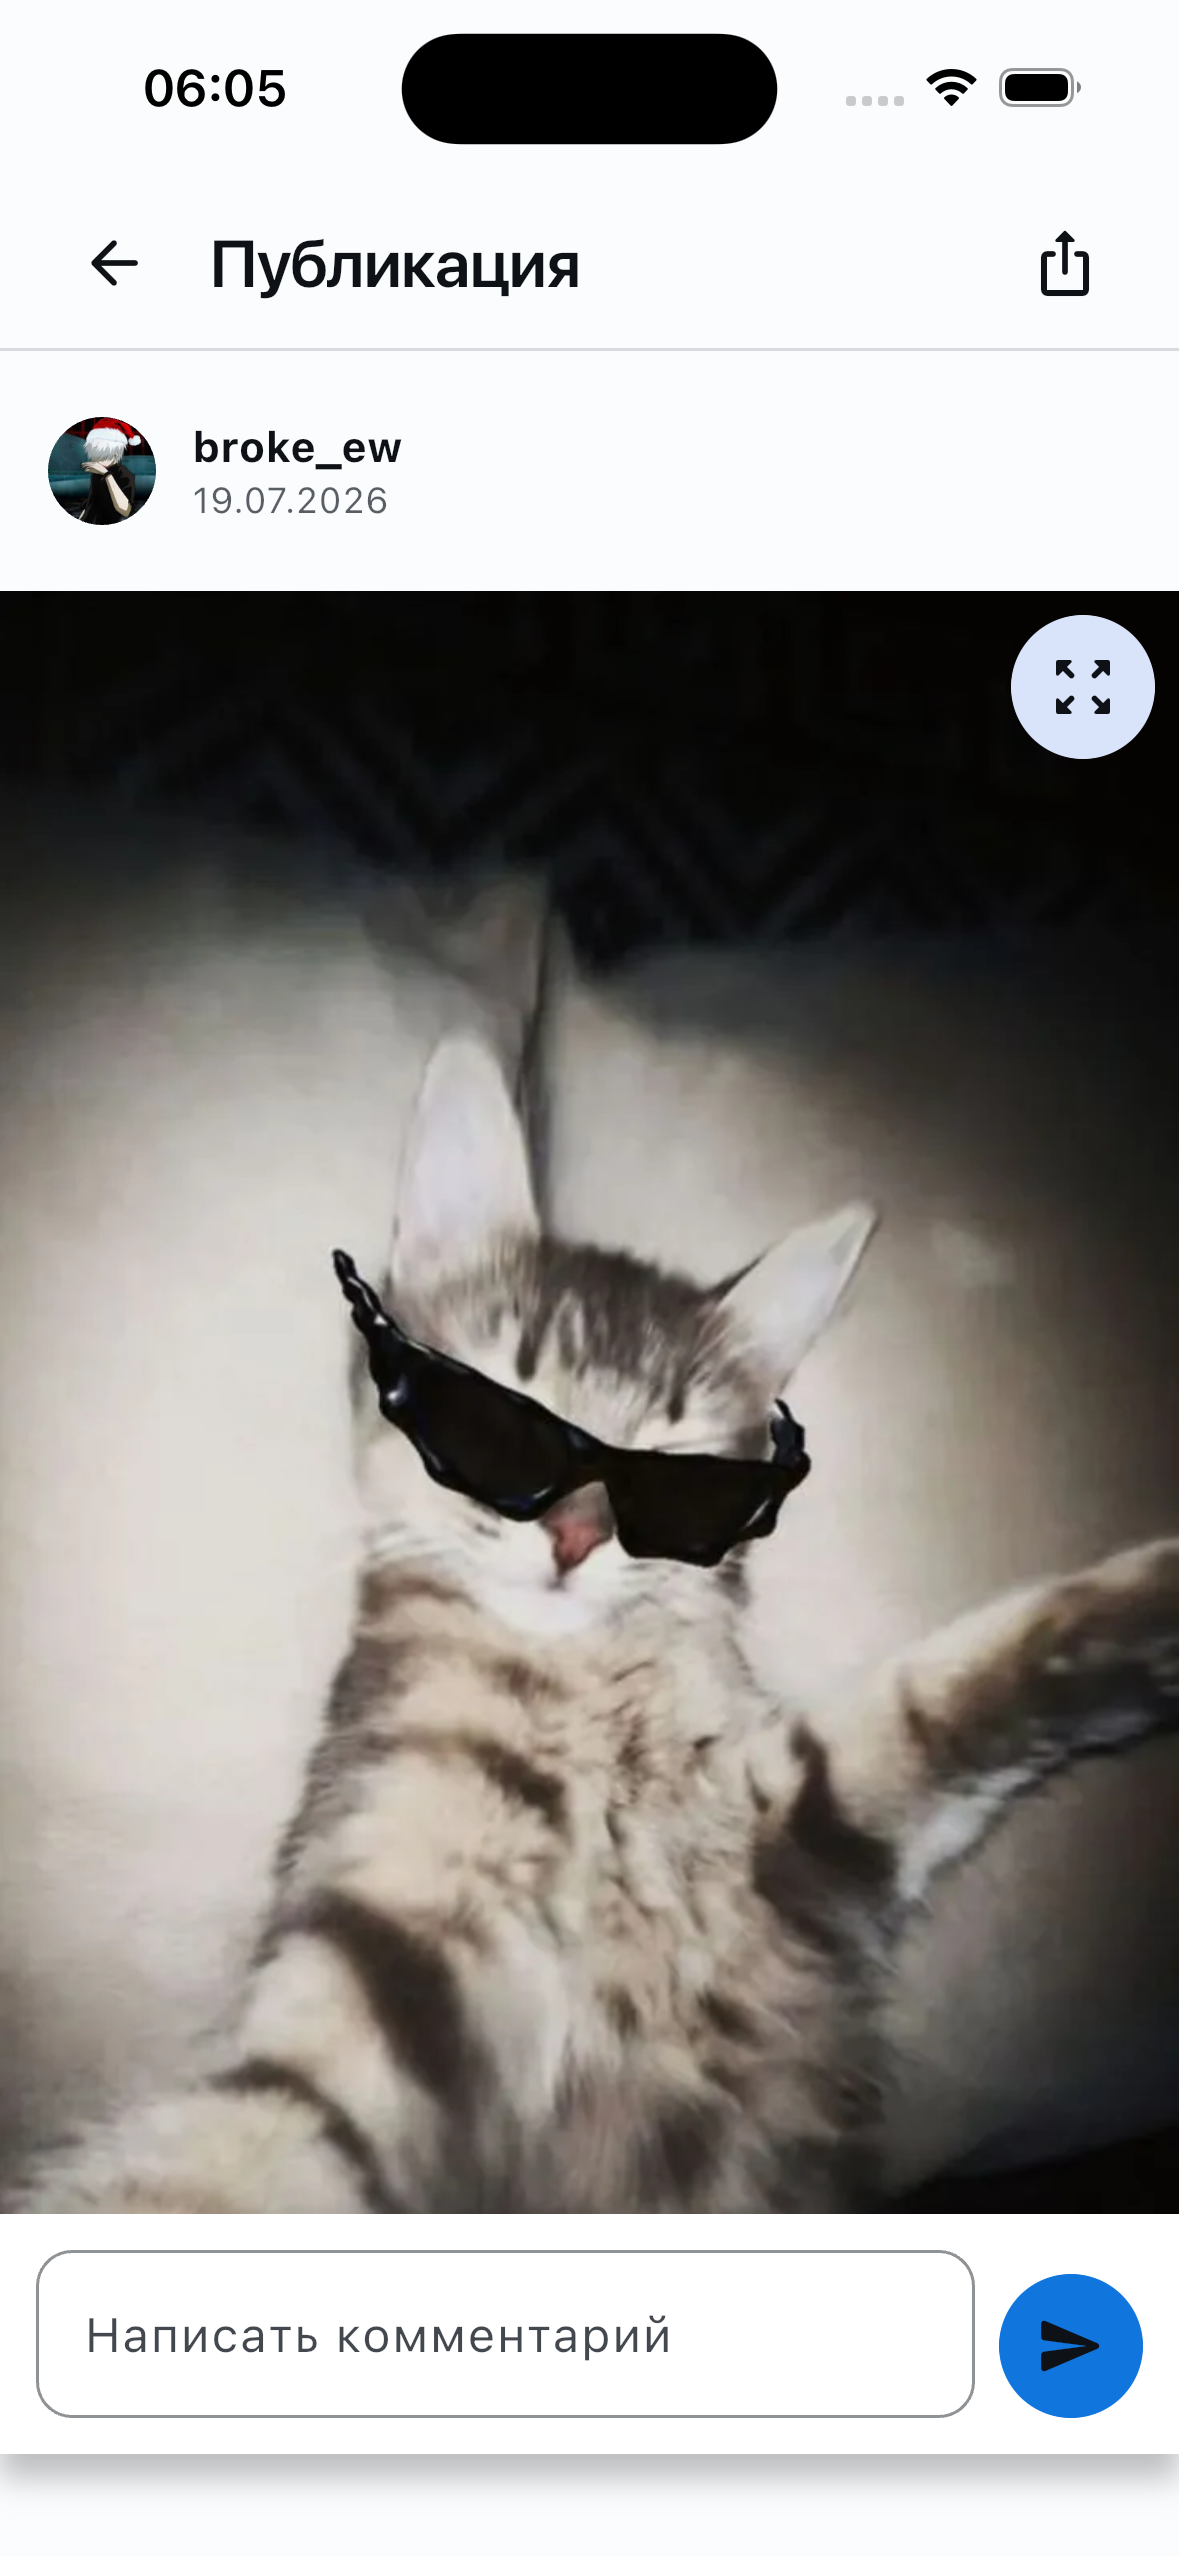
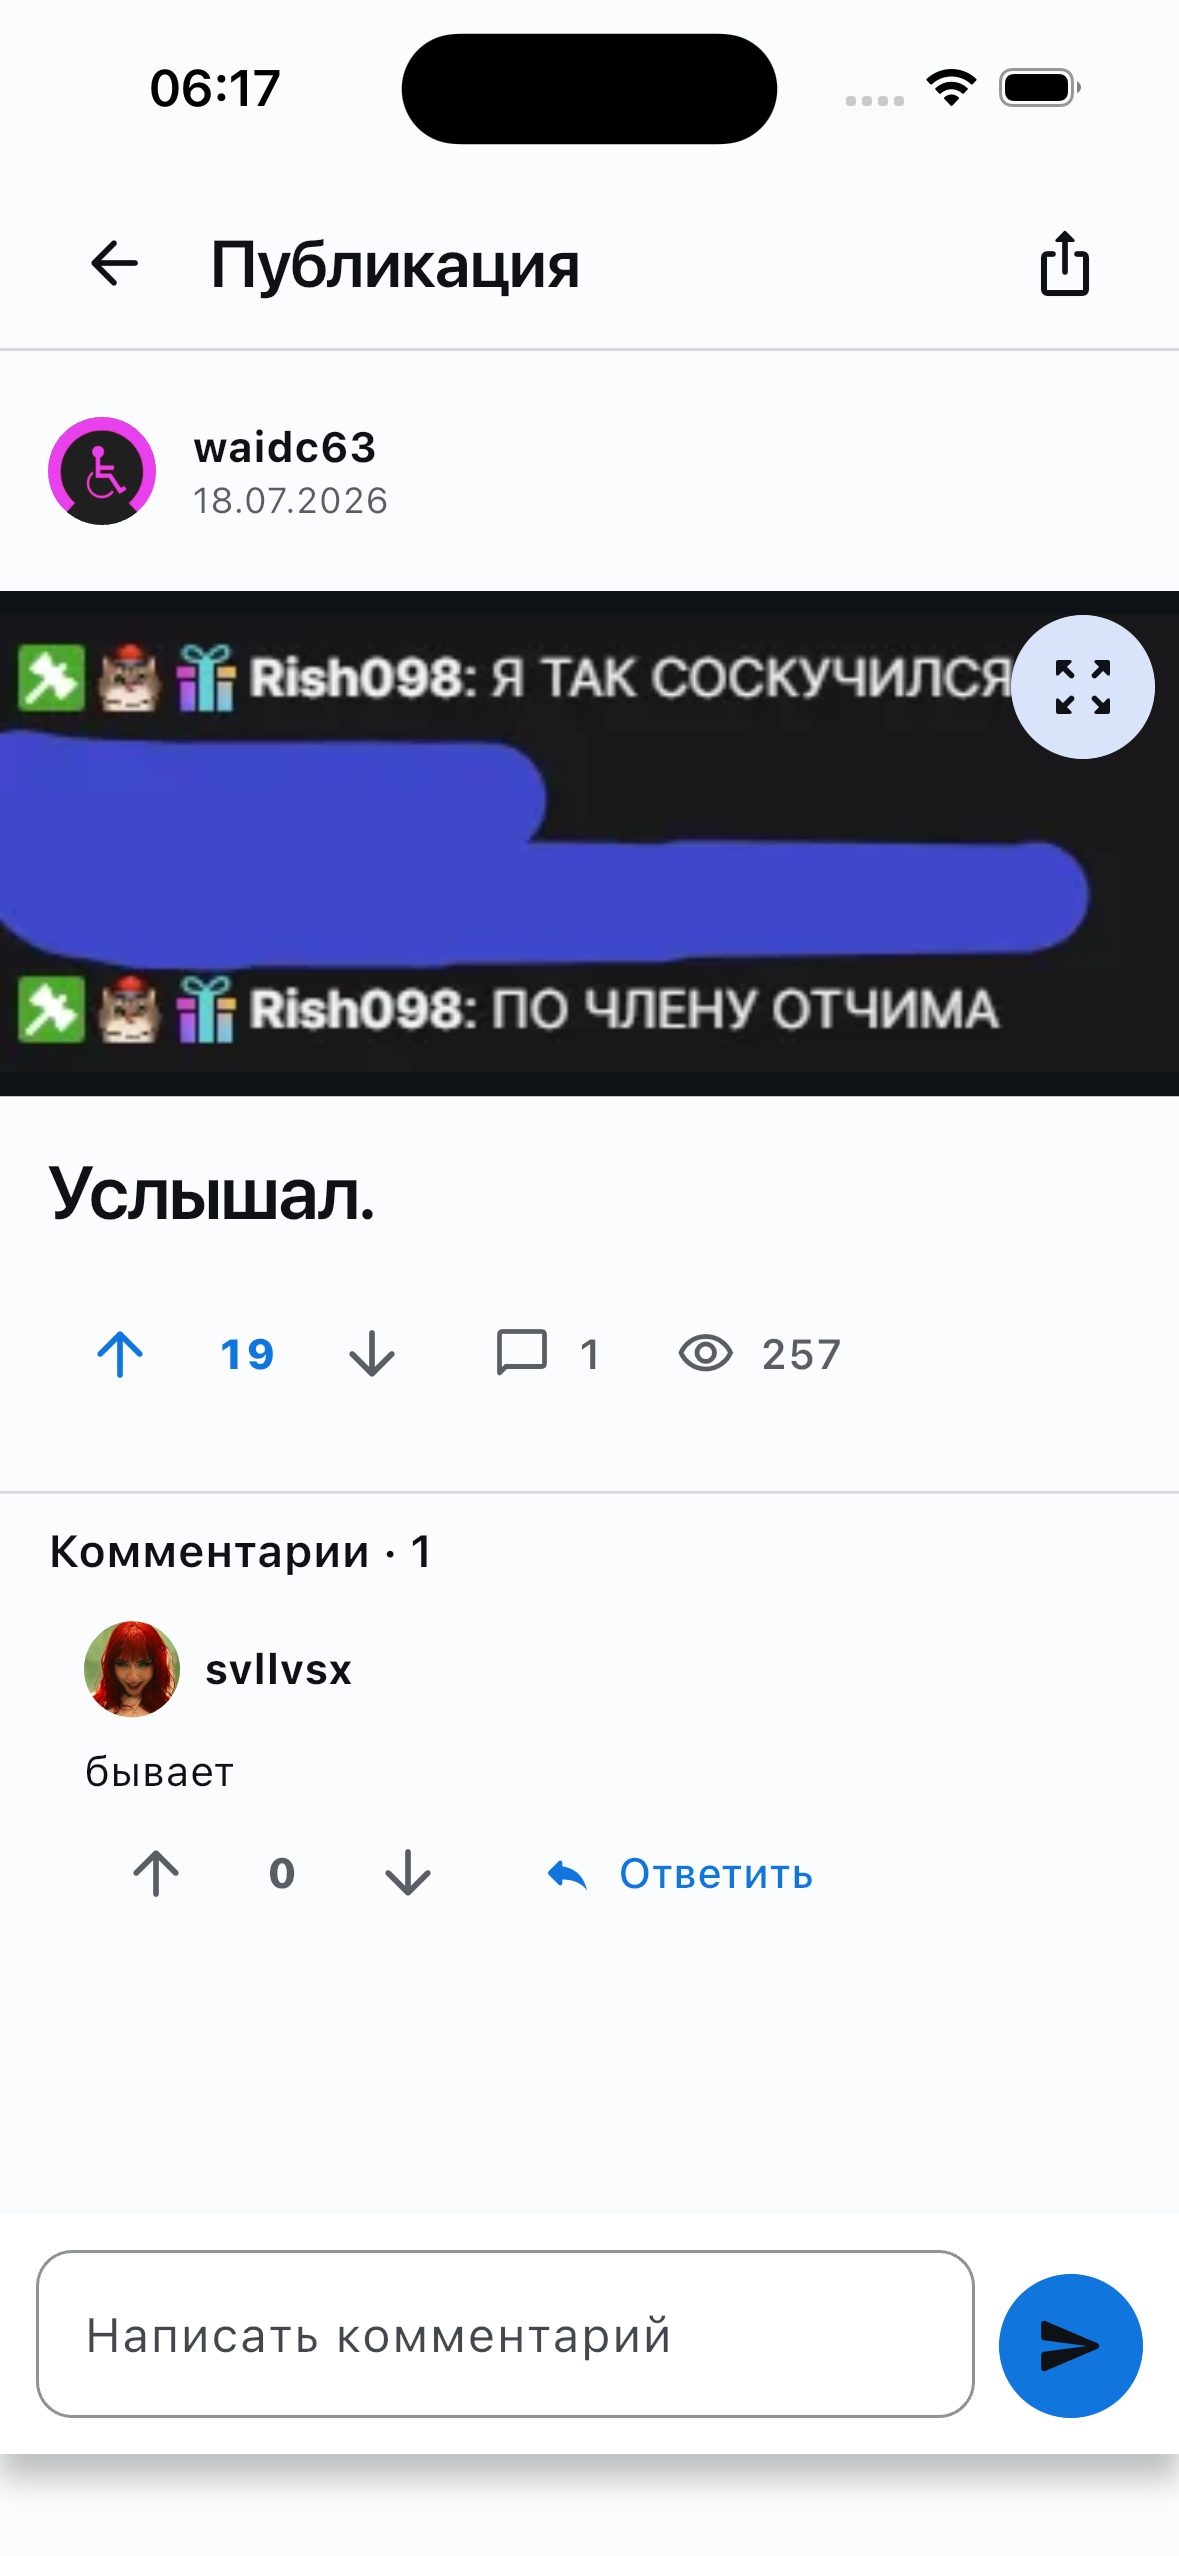
Prepare alpha release documentation

diff --git a/README.md b/README.md
@@ -31,14 +31,14 @@
 </table>
 
 <p align="center">
-  <img alt="Flutter" src="https://img.shields.io/badge/Flutter-stable-02569B?style=for-the-badge&logo=flutter&logoColor=white">
-  <img alt="Dart" src="https://img.shields.io/badge/Dart-stable-0175C2?style=for-the-badge&logo=dart&logoColor=white">
-  <img alt="Android" src="https://img.shields.io/badge/Android-поддерживается-3DDC84?style=for-the-badge&logo=android&logoColor=white">
-  <img alt="iOS" src="https://img.shields.io/badge/iOS-поддерживается-000000?style=for-the-badge&logo=apple&logoColor=white">
+  <img alt="Flutter 3.44.2" src="https://img.shields.io/badge/Flutter-3.44.2-02569B?style=for-the-badge&amp;logo=flutter&amp;logoColor=white">
+  <img alt="Dart 3.12.2" src="https://img.shields.io/badge/Dart-3.12.2-0175C2?style=for-the-badge&amp;logo=dart&amp;logoColor=white">
+  <img alt="Android" src="https://img.shields.io/badge/Android-ready-3DDC84?style=for-the-badge&amp;logo=android&amp;logoColor=white">
+  <img alt="iOS" src="https://img.shields.io/badge/iOS-ready-000000?style=for-the-badge&amp;logo=apple&amp;logoColor=white">
 </p>
 
 <p align="center">
-  <a href="#возможности">Возможности</a> ·
+  <a href="#готово-и-работает">Готово</a> ·
   <a href="#интерфейс">Интерфейс</a> ·
   <a href="#архитектура">Архитектура</a> ·
   <a href="#запуск">Запуск</a> ·
@@ -53,6 +53,12 @@ Eblo.id — нативный по поведению мобильный клие
 Приложение использует одно Flutter-дерево интерфейса для iOS и Android. Платформенные различия изолированы в адаптерах авторизации, безопасного хранилища, выбора файлов, воспроизведения медиа, системной отправки ссылок и deep links.
 
 Проект находится в активной разработке. Текущий код уже поддерживает основной пользовательский маршрут, но пока не считается готовым к публикации в App Store и Google Play.
+
+## Альфа-Сборка
+
+Текущая тестовая версия доступна в [GitHub Releases](https://github.com/svllvsxprod/ebloid_client/releases/tag/v1.0.0-alpha.1).
+
+Это debug APK для тестирования альфа-версии. Сборка не предназначена для публикации в Google Play или использования как production release.
 
 ## Интерфейс
 
@@ -71,24 +77,25 @@ Eblo.id — нативный по поведению мобильный клие
   </tr>
 </table>
 
-## Возможности
+## Готово И Работает
 
-- Публичная лента с фильтрами по типу медиа, сортировками, периодами, обновлением и пагинацией.
-- Изображения, видео, аудио, одиночные публикации и альбомы.
-- Экран публикации с исходным соотношением сторон, полноэкранным просмотром изображений и нативным воспроизведением медиа.
-- Авторизация через Twitch внутри изолированного eblo.id WebView flow.
-- Восстановление eblo.id session после перезапуска приложения.
-- Upvote/downvote публикаций с восстановлением выбранной реакции.
-- Реакции на комментарии и ответы с optimistic update и откатом при ошибке.
-- Комментарии, вложенные ответы и переход к конкретному комментарию по deep link.
-- Создание публикаций с изображениями, видео, аудио и несколькими файлами.
-- Публичные публикации и публикации «По ссылке».
-- Защищённый локальный черновик с сохранением порядка выбранных файлов.
-- Прогресс загрузки, отмена и повтор после recoverable error.
-- Публичные профили и публикации автора.
-- Общий поиск по публикациям, видео и пользователям.
-- Системная отправка канонической ссылки на публикацию.
-- Единый адаптивный интерфейс для iOS и Android без платформенных копий экранов.
+- ✅ Общая лента с сортировками, периодами, фильтрами по типу медиа, обновлением и пагинацией.
+- ✅ Изображения, видео, аудио, одиночные публикации и альбомы.
+- ✅ Экран публикации с исходным соотношением сторон и полноэкранным просмотром изображений.
+- ✅ Нативное воспроизведение видео и аудио.
+- ✅ Twitch-авторизация на Android и iOS через изолированный eblo.id WebView flow.
+- ✅ Безопасное сохранение и восстановление eblo.id session через Android Keystore и iOS Keychain.
+- ✅ Профиль активного пользователя, публичные профили и публикации автора.
+- ✅ Upvote/downvote публикаций с восстановлением выбранной реакции.
+- ✅ Реакции на комментарии и ответы с optimistic update и откатом при ошибке.
+- ✅ Комментарии и вложенные ответы.
+- ✅ Создание публикаций с изображениями, видео, аудио и несколькими файлами.
+- ✅ Публикации «В ленте» и «По ссылке».
+- ✅ Защищённый локальный черновик, прогресс загрузки, отмена и повтор.
+- ✅ Общий поиск по публикациям, видео и пользователям.
+- ✅ Системная отправка канонической ссылки на публикацию.
+- ✅ Единый адаптивный интерфейс, название и launcher icons для Android и iOS.
+- ✅ Unit/widget tests, Android debug build и iOS Simulator build.
 
 ## Архитектура
 